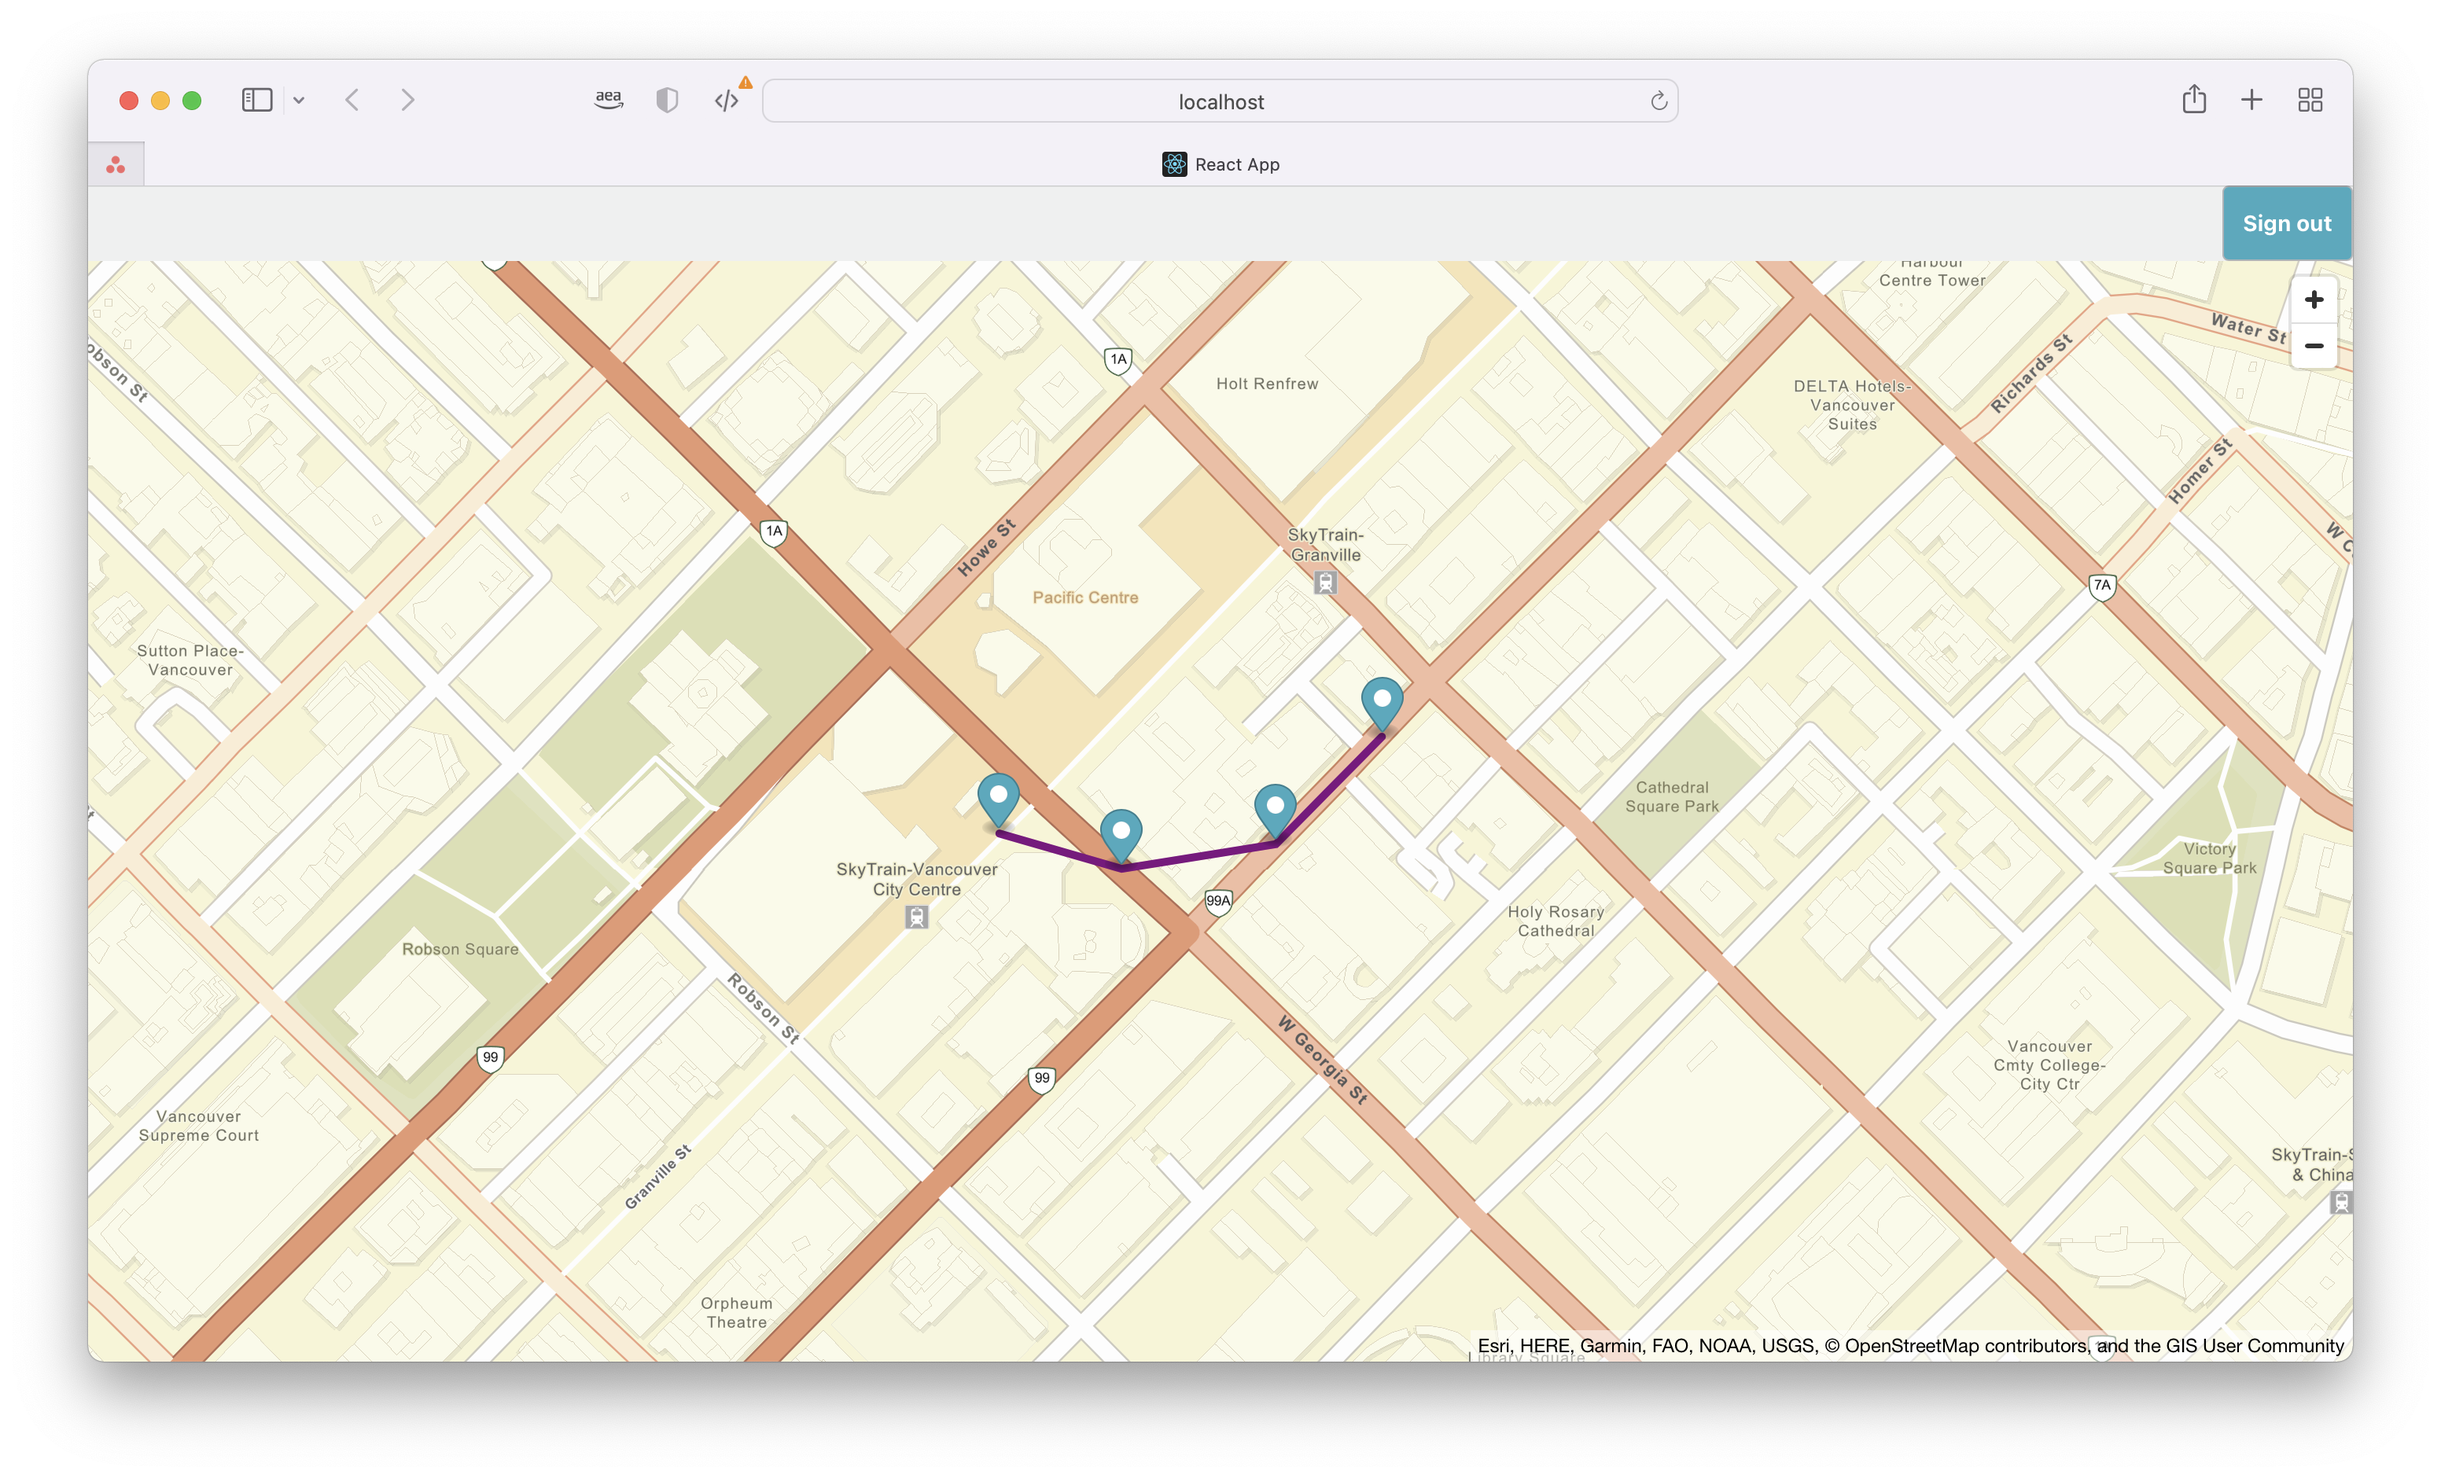
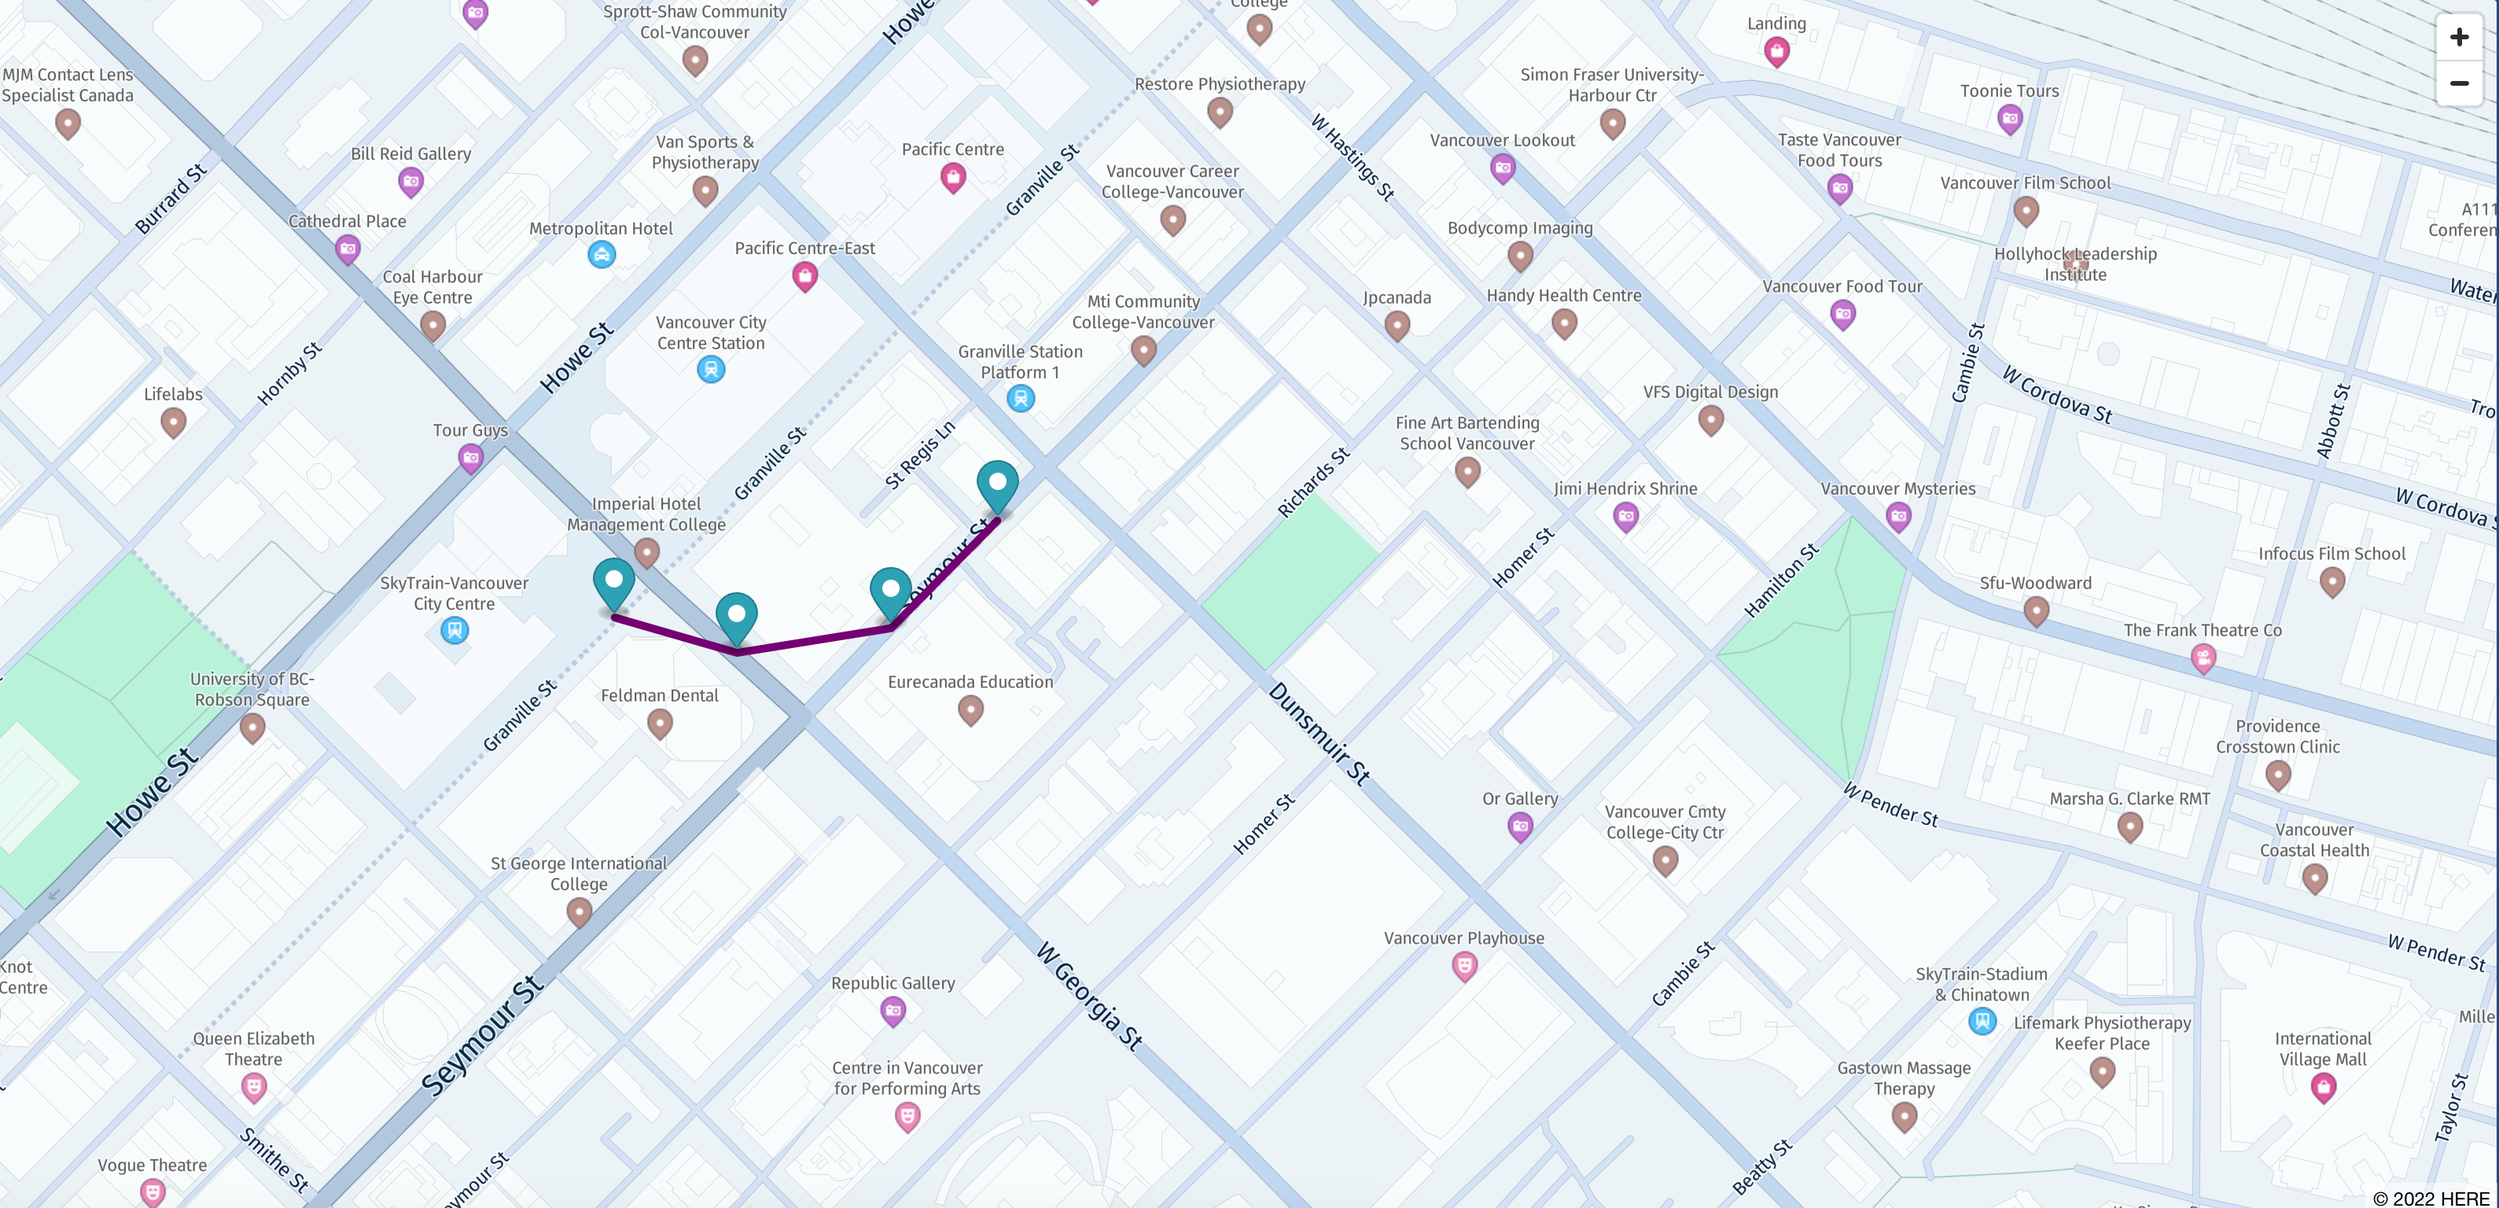
Updating to use HERE Maps

diff --git a/maplibre-js-react-iot-asset-tracking/generate_thing_events/index.js b/maplibre-js-react-iot-asset-tracking/generate_thing_events/index.js
@@ -1,7 +1,7 @@
 const awsIot = require("aws-iot-device-sdk");
 
 // Replace with your AWS IoT endpoint
-const THING_ENDPOINT = "a1t514jpw0kny1-ats.iot.eu-west-1.amazonaws.com";
+const THING_ENDPOINT = "<code>-ats.iot.us-east-1.amazonaws.com";
 const CLIENT_ID = "trackThing01";
 const IOT_TOPIC = "iot/trackedAssets";
 

diff --git a/maplibre-js-react-iot-asset-tracking/README.md b/maplibre-js-react-iot-asset-tracking/README.md
@@ -85,16 +85,15 @@ When you run `amplify add geo` in a empty project Amplify will ask you if you wa
 amplify add geo
 ? Select which capability you want to add: Map (visualize the geospatial data)
 ✔ geo category resources require auth (Amazon Cognito). Do you want to add auth now? (Y/n) · yes
-
 Using service: Cognito, provided by: awscloudformation
-
- The current configured provider is Amazon Cognito.
-
+ 
+ The current configured provider is Amazon Cognito. 
+ 
  Do you want to use the default authentication and security configuration? Default configuration
- Warning: you will not be able to edit these selections.
+ Warning: you will not be able to edit these selections. 
  How do you want users to be able to sign in? Username
  Do you want to configure advanced settings? No, I am done.
-✅ Successfully added auth resource maplibrejsreactiotas09d74126 locally
+✅ Successfully added auth resource maplibrejsreactiotasf3978ca5 locally
 
 ✅ Some next steps:
 "amplify push" will build all your local backend resources and provision it in the cloud
@@ -105,7 +104,11 @@ Using service: Cognito, provided by: awscloudformation
 Available advanced settings:
 - Map style & Map data provider (default: Streets provided by Esri)
 
-✔ Do you want to configure advanced settings? (y/N) · no
+✔ Do you want to configure advanced settings? (y/N) · yes
+✔ Specify the map style. Refer https://docs.aws.amazon.com/location-maps/latest/APIReference/API_MapConfiguration.html · 
+Explore (data provided by HERE)
+⚠ Auth configuration is required to allow unauthenticated users, but it is not configured properly.
+✅ Successfully updated auth resource locally.
 ✅ Successfully added resource mapiottracker locally.
 ```
 
